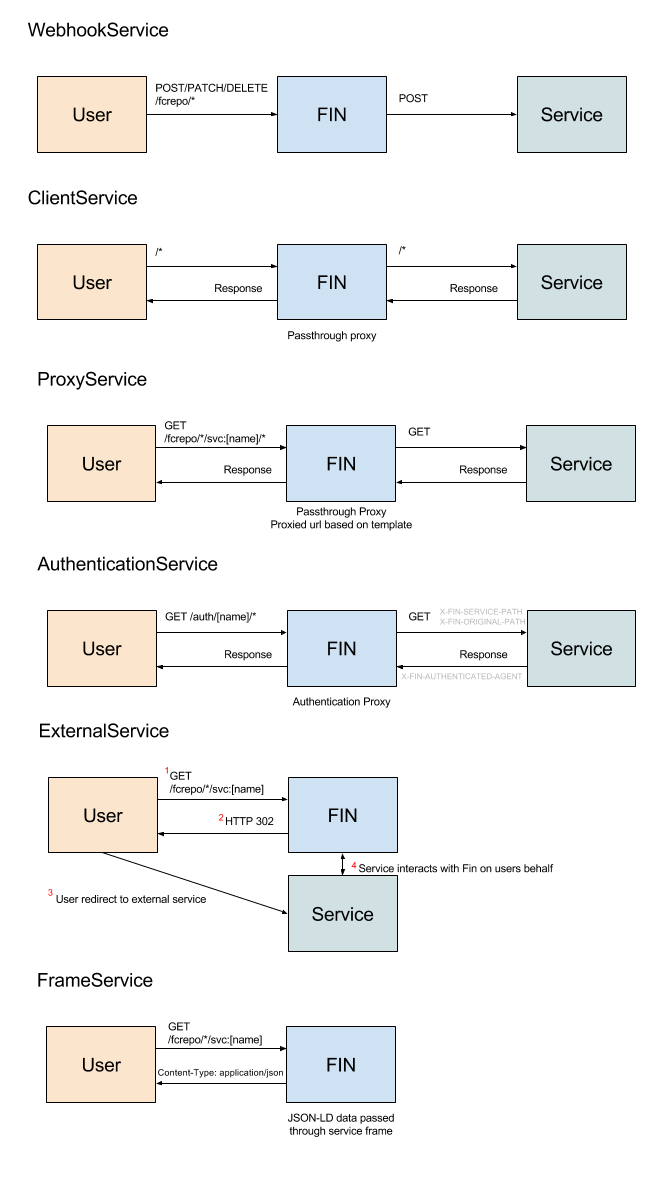
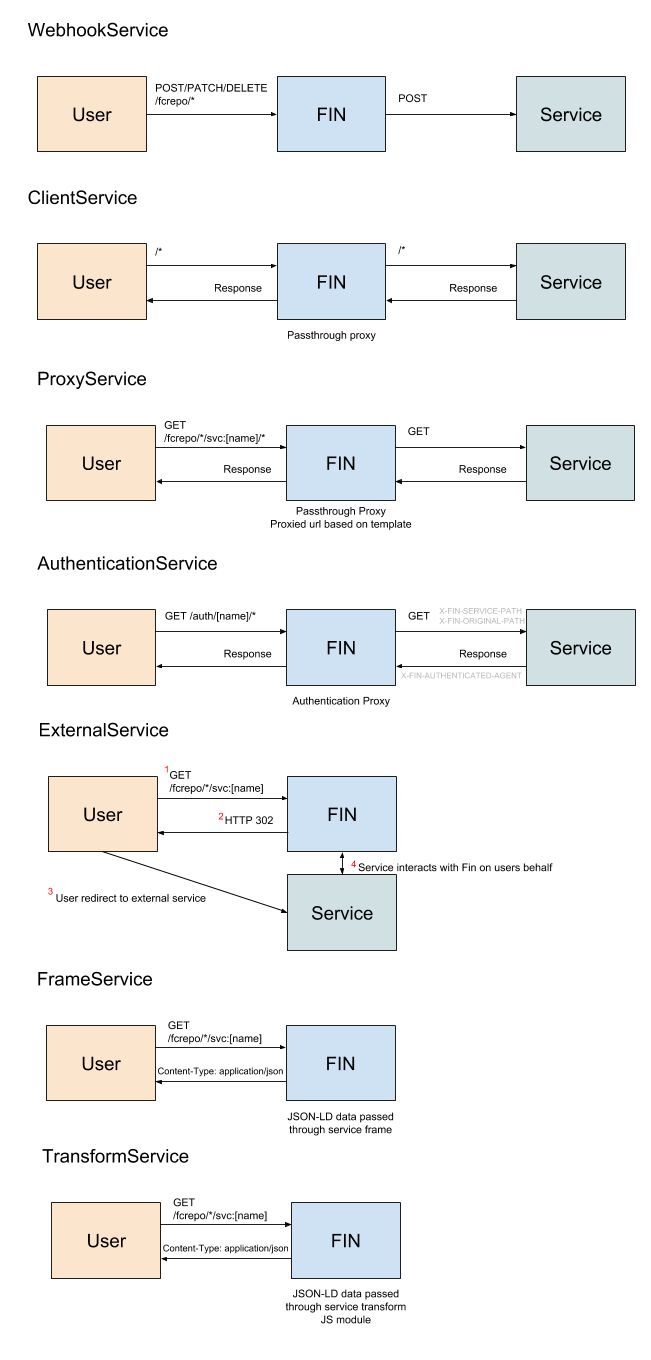
start of transform service documentation

Changed region(s): [[0.031, 0.0, 0.9907, 0.9779], [0.6811, 0.0306, 0.9907, 0.275], [0.7121, 0.3362, 0.774, 0.3667]]

diff --git a/docs/tranform-service/README.md b/docs/tranform-service/README.md
@@ -1,0 +1,180 @@
+# FrameService
+
+![Overview](./transform-service.png)
+
+## Overview
+
+The TransformService allows you to perform a transform on JSON-LD data using JavaScript.  As a developer, you may wish to use Fedora data in other applications which requires exporting RDF data to a normalized object format.  The TransformService allows you to manipulate the JSON-LD graph for any given location and return custom JSON.  The provided function can return a ```Promise``` allowing for additional work, such as network requests, to be performed.
+
+SECURITY NOTE: The JavaScript will be executed in the servers runtime, this service is ment to provide the host/admin of the DAMS simple extension capabilities.
+
+## Implementing a TransformService
+
+To create a TransformService service, create a JavaScript file exporting the following function:
+
+```javascript
+module.exports = async function(path, graph, utils) {
+  // ... do work here
+  // return json object to send.
+}
+```
+
+You can ```require()``` any library defined in the [server package.json file](../../server/package.json).
+
+### Parameters
+
+- path (String): path of current container
+- graph (Object): JSON-LD graph
+- utils (Object): helper library for manipulating JSON-LD
+
+### utils
+
+The utils library provides the following functionality:
+
+#### utils.get
+
+A common first step will be to extract the container at the given path from the JSON-LD graph.  this can be done as follows:
+
+```javascript
+let container = utils.get(path, graph);
+```
+
+#### utils.init
+
+This function sets the destination object and the source JSON-LD container for the helper `add` function.
+
+```javascript
+let item = {};
+let container = utils.get(path, graph);
+utils.init(item, container);
+```
+
+#### utils.ns
+
+Set the prefix namespace for the container so short names can be used later by the `add` function.
+
+```javascript
+utils.ns({
+  "fedora" : "http://fedora.info/definitions/v4/repository#",
+  "fast": "http://id.worldcat.org/fast/",
+  "lcna": "http://id.loc.gov/authorities/names/",
+  "rdf": "http://www.w3.org/1999/02/22-rdf-syntax-ns#",
+  "schema": "http://schema.org/",
+  "ucdlib": "http://digital.ucdavis.edu/schema#",
+  "premis" : "http://www.loc.gov/premis/rdf/v1#",
+  "ebucore" : "http://www.ebu.ch/metadata/ontologies/ebucore/ebucore#"
+});
+```
+
+#### utils.add
+
+This function helps extract JSON-LD triples and set key/value pairs in the result object.  `add` takes a single config object with the following properties:
+
+- attr: attribute (key) to set in result object
+- value: JSON-LD key to extract value from
+  - value can either be a full uri string, ex: `http://schema.org/name`
+  - or value should be an array where the first element is the short name defined in `ns()` and the second is the schema attribute, ex: ['schema', 'name'].
+- type: type of value to extract.  defaults to `@value`.  Other options are
+  - id: extract string from `@id`
+  - date: converts `@value` to ```new Date()```
+  - number: converts `@value` to int
+  - float: converts `@value` to float
+  - boolean: converts `@value` to boolean
+  - parser: custom parser function
+- default: default value for attr if not found in JSON-LD.  If default is not provided and the attribute is not found, the attribute will be ignored.
+
+If a attribute as multiple values an array will be used otherwise a singleton value.
+
+examples:
+
+```javascript
+utils.add({
+  attr : 'name',
+  value : ['schema', 'name'],
+  default : ''
+});
+
+utils.add({
+  attr : 'isPartOf',
+  value : ['schema', 'isPartOf'],
+  type : 'id'
+});
+
+utils.add({
+  attr : 'fileSize',
+  value : ['premis', 'hasSize'],
+  type : 'number'
+});
+```
+
+#### utils.isType
+
+Check if a container is of type.  Note, if you throw errors in the transform, they will be handled by the server.
+
+```javascript
+if( !utils.isType(container, 'http://fedora.info/definitions/v4/repository#Resource') ) {
+  throw new Error('invalid type');
+}
+```
+
+### UCD DAMS specific helpers
+
+#### utils.stripFinHost
+
+Remove the host and base fcrepo path from ids.
+
+```javascript
+utils.stripFinHost(item);
+```
+
+#### utils.setImage
+
+Set the item.image object.  If the container has a workExample or fileFormat or hasMimeType is of type image/* then the path is used to lookup image dimensions from the IIIF service.  A colorPalette attribute will be set as well, which is a base64 encoded png image uri for a 8 x X px image.  Used for loading effect.
+
+The resulting image object should look like the following:
+
+```javascript
+{
+  path : String,
+  width : Number,
+  height : Number,
+  colorPalette: String
+}
+```
+
+```javascript
+utils.setImage(item);
+```
+
+#### utils.setIndexableContent
+
+If ucdlib:textIndexable is set to `true`, request the containers binary content and store in `indexableContent`.  Used to store elastic search text blobs.
+
+#### utils.setYearFromDate
+
+Extract year from given attribute dates so year can be filtered as a number by elastic search.  Attributes are defined by utils.dateToYear
+
+#### utils.isRecord
+
+Is the container a creative work or media object?
+
+#### utils.setRootRecord
+
+If the container has isPartOf and isPartOf points at a collection container, the container is a `rootRecord`.
+
+## Registration via CLI
+
+Example using the es-record-tranform service from the demo
+
+```bash
+$ fin service create \
+  --title "Elasticsearch - Collection Record Transform" \
+  --description "Used for updating Elasticsearch indexes when fedora updates" \
+  --transform /path/to/transform.js \
+  es-record-transform TransformService
+```
+
+## Demo
+
+Demo frames definitions (JavaScript files) can be found here:
+ - [Frames](../../server/default-transforms)

diff --git a/services/README.md b/services/README.md
@@ -30,6 +30,12 @@ A JSON-LD service that returns a framed JSON-LD response based on the fcrepo pat
 
 [FrameService Documentation](../docs/frame-service/README.md)
 
+## TransformService
+
+A service that returns a transfrom JSON-LD Object from a provided JavaScript module.
+
+[TransformService Documentation](../docs/transform-service/README.md)
+
 ## ExternalService
 
 A external service will send a HTTP 302 redirect to a external service.  The url of the redirect will include the current Fin url (host and fcrepo path) as well as a auth token if the user is logged in.  The external service can then request data and make updates to Fin on the users behalf.  YOU SHOULD HAVE TRUST IN ALL REGISTERED EXTERNAL SERVICES.

diff --git a/README.md b/README.md
@@ -17,6 +17,7 @@ A demo for using Fin can be found in [docker/fin-demo](docker/fin-demo/README.md
   - [ClientService](docs/client-service/README.md)
   - [ExternalService](docs/external-service/README.md)
   - [FrameService](docs/frame-service/README.md)
+  - [TransformService](docs/transform-service/README.md)
   - [ProxyService](docs/proxy-service/README.md)
   - [WebhookService](docs/webhook-service/README.md)
 - [Config](docs/env-config.md)
